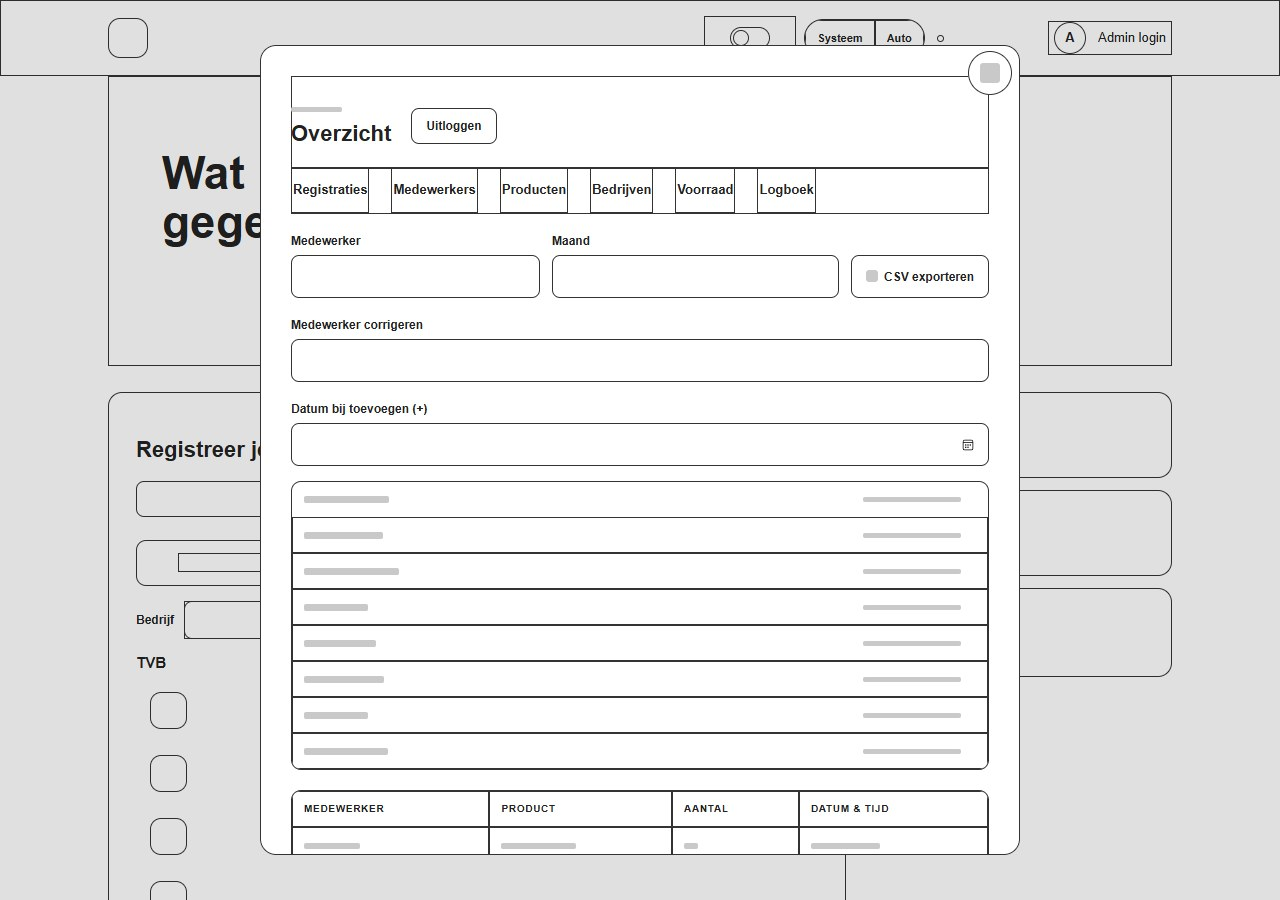
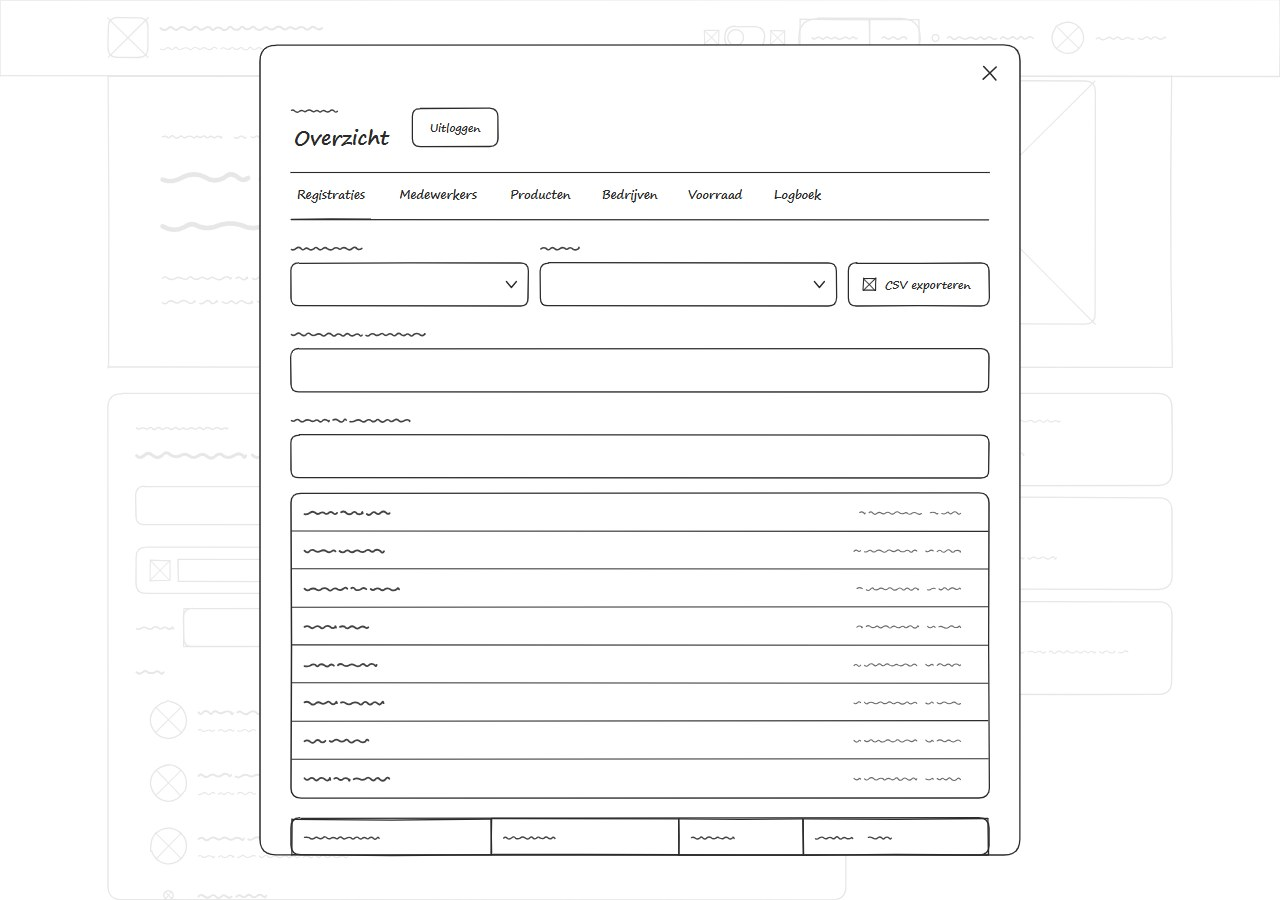
TO 3.9: low-fidelity wireframes in schetsstijl en twee iteraties voor mid- en high-fidelity

diff --git a/docs/TO-BLIKJESREGISTRATIE.md b/docs/TO-BLIKJESREGISTRATIE.md
@@ -1,7 +1,7 @@
 # Technisch Ontwerp - Blikjesregistratie TVB
 
 **Auteur:** Youri Rodenburg
-**Versie:** 3.8
+**Versie:** 3.9
 **Datum:** 12 oktober 2026
 **Status:** frontend-demo met productieschema voor PostgreSQL
 
@@ -23,6 +23,7 @@ De versies hieronder komen uit de git-historie van dit bestand (`git log --follo
 | 3.6 | 9 oktober 2026 | AFAS-koppeling (ontwerp) en herkennen met de pas. Ontwerp van de koppeling met AFAS Profit voor de medewerkergegevens (hoofdstuk 11) met FR-67 en AC-87 t/m AC-89. Herkennen met een USB-NFC-pasjeslezer in de demo (class `BadgeReader`) en een pas koppelen in het beheer, met FR-65, FR-66, UC-20 en AC-84 t/m AC-86. |
 | 3.7 | 9 oktober 2026 | Open punten uit de beveiligingsscan opgelost (hoofdstuk 13). Iedere beheeractie controleert in de controller zelf of er een beheerder is ingelogd (`requireAdmin`). Product-id's als `__proto__`, `constructor` of `toString` kunnen de voorraadlijst van een consumptiepunt niet meer verstoren. De camera gaat uit als de tijd voor herkennen of instellen om is. Codes en tijdstippen worden bij het laden strenger gecontroleerd. Het logboek in het databaseschema is echt alleen-toevoegen (triggers). De CI draait op Node.js 24 en de licentie van TensorFlow.js is toegevoegd. Twee bekende beperkingen erbij: registreren op naam van een ander en face-api dat niet meer wordt onderhouden. Nieuw testbestand `tests/beveiligingsscan.test.js` (534 tests in totaal). User stories US-01 t/m US-64 toegevoegd aan het eind van hoofdstuk 10. De diagrammen tonen nu ook de pasjeslezer, `BadgeReader`, UC-20 en de koppeling met AFAS. `BADGE_READER.minLength` is 4, zodat ook het kortste pasnummer dat de beheerder kan koppelen te scannen is. |
 | 3.8 | 12 oktober 2026 | Correctie `−` verbeterd: de beheerder kiest in het nieuwe venster `Registratie verwijderen` welke registratie (datum en tijd, product en aantal) weg moet, in plaats van dat altijd de laatst ingevoerde registratie verdwijnt. FR-14, UC-09, W19, US-30, AC-12 en AC-78 aangepast, AC-90 en screenshot W41 toegevoegd. In het logboek staat nu ook wanneer de verwijderde registratie was geregistreerd. De open controle van de keuzelijsten in het donkere thema is uitgevoerd (zie W39): de keuzelijsten en hun opties zijn in beide thema's goed leesbaar (licht 21:1, donker 15,7:1). Daarbij bleek de placeholdertekst in het donkere thema te weinig contrast te hebben (3,4:1). Die gebruikt nu `--muted` (6,9:1). Ook de grijze uitleg- en bijschrifttekst (`--muted`) haalde in het lichte thema de norm niet (3,9:1) en is iets donkerder gemaakt in dezelfde tint (`#5a6c71`, 5,5:1). W39 is opnieuw gemaakt en de twee bekende beperkingen over deze punten zijn vervallen. 547 tests in totaal. Nieuw zijn 9 browsertests (`tests/e2e/`) die de echte pagina in headless Edge of Chrome testen, zonder npm-pakketten, en die in GitHub Actions na de unit tests draaien. De melding "… bestaat niet meer. Er is niets opgeslagen." staat in de app nu precies zoals in dit document. De controller is opgesplitst zonder gedragsverandering: `RegistrationApp` (eerst 2414 regels, nu 593) maakt en koppelt acht kleinere classes met elk één taak (`ModalManager`, `EmployeeController`, `BadgeController`, `FaceController`, `AdminController`, `CorrectionController`, `StockController` en `FormController`), en alle methodes blijven via `RegistrationApp` bereikbaar. Hoofdstuk 6 (met het klassendiagram en het architectuurdiagram), de use cases, hoofdstuk 13 en hoofdstuk 16 zijn daarop aangepast, en de bekende beperking "`RegistrationApp` is een grote klasse" is vervallen. De acht onderdelen staan in de map `assets/js/controllers/`. Bestandsnamen consequenter gemaakt: `csvExport.js` heet nu `CsvExport.js` (zoals de andere classes) en de testbestanden hebben Nederlandse namen die zeggen wat ze testen (`thema`, `welkom-en-gezichtsherkenning`, `pasjeslezer`, `codecontrole4-model`, `codecontrole4-ui` en `view-en-controller`). |
+| 3.9 | 12 oktober 2026 | Hoofdstuk 9: de vijftien low-fidelity wireframes (L01 t/m L15) opnieuw gemaakt in een echte schetsstijl, met dunne zwarte lijnen op wit, een rechthoek met een kruis voor afbeeldingen, iconen en het logo, een cirkel met een kruis voor avatars en krabbellijnen in plaats van tekst. De eerdere versie leek te veel op een mid-fidelity wireframe. De uitleg over hoe ze zijn gemaakt en de legenda zijn aangepast. Twee iteraties (ontwerpvarianten) toegevoegd bij de mid-fidelity wireframes (beginpagina met een alfabetische lijst en de zoekbalk onderaan, productvenster met een aantalveld) en twee bij de high-fidelity wireframe (productvenster met tegels en registreren per tegel, beginpagina met de totalen bovenaan en een raster met avatars), elk met wat er anders is, de afweging en het besluit. De website zelf, de mid-fidelity wireframes M01 t/m M15 en de screenshots W01 t/m W41 zijn niet veranderd. |
 
 ## Inhoudsopgave
 
@@ -912,30 +913,34 @@ Een wireframe kan op drie niveaus worden uitgewerkt:
 
 | Niveau | Wat het laat zien | Waar in dit document |
 |---|---|---|
-| Low-fidelity | Alleen de indeling: vlakken, kaders, knoppen en waar tekst komt. Geen kleuren en (bijna) geen tekst. | [Low-fidelity wireframes](#low-fidelity-wireframes) |
-| Mid-fidelity | De indeling met de echte teksten, labels en volgorde, in grijstinten en met één lettertype. Nog zonder huisstijl. | [Mid-fidelity wireframes](#mid-fidelity-wireframes) |
-| High-fidelity | Het eindontwerp met de kleuren, lettertypes, iconen en afbeeldingen van TVB. | [Wireframes](#wireframes) (de screenshots van de website) |
+| Low-fidelity | Alleen de indeling, als schets: dunne zwarte lijnen op wit, kaders voor vlakken, knoppen en velden, een kader met een kruis voor afbeeldingen en iconen en krabbellijnen waar tekst komt. Geen kleuren en bijna geen echte tekst. | [Low-fidelity wireframes](#low-fidelity-wireframes) |
+| Mid-fidelity | De indeling met de echte teksten, labels en volgorde, in grijstinten en met één lettertype. Nog zonder huisstijl. Met twee iteraties (ontwerpvarianten). | [Mid-fidelity wireframes](#mid-fidelity-wireframes) |
+| High-fidelity | Het eindontwerp met de kleuren, lettertypes, iconen en afbeeldingen van TVB. Met twee iteraties (ontwerpvarianten). | [High-fidelity wireframe](#high-fidelity-wireframe) en [Wireframes](#wireframes) (de screenshots van de website) |
 
-**Hoe de low- en mid-fidelity wireframes zijn gemaakt.** Aan het begin van het project zijn de twee schetsen hieronder gemaakt ("Eerste schets" en "Eerste uitwerking"). De website is daarna flink veranderd, dus die schetsen laten niet meer zien hoe de website nu is. Daarom zijn de low- en mid-fidelity wireframes in dit hoofdstuk opnieuw gemaakt **vanuit de huidige website**, zodat ze precies overeenkomen met de echte schermen. Dat is gedaan met Microsoft Edge zonder venster (headless), met dezelfde demogegevens als de high-fidelity screenshots (ingevoerd via de website zelf). De meeste zijn gemaakt op 1 oktober 2026. Een paar zijn later op dezelfde manier en met dezelfde stappen opnieuw gemaakt, omdat de website op die plek was veranderd:
+**Hoe de low- en mid-fidelity wireframes zijn gemaakt.** Aan het begin van het project zijn de twee schetsen hieronder gemaakt ("Eerste schets" en "Eerste uitwerking"). De website is daarna flink veranderd, dus die schetsen laten niet meer zien hoe de website nu is. Daarom zijn de low- en mid-fidelity wireframes in dit hoofdstuk opnieuw gemaakt **vanuit de huidige website**, zodat ze precies overeenkomen met de echte schermen. Dat is gedaan met Microsoft Edge zonder venster (headless), met dezelfde demogegevens als de high-fidelity screenshots (ingevoerd via de website zelf).
 
-- L07 en M07 (Registraties) op 2 oktober 2026, omdat het datumveld `Datum bij toevoegen (+)` is bijgekomen.
-- L15 en M15 (Logboek) op 2 oktober 2026, omdat onder het logboek de knop `Alle gegevens wissen` is bijgekomen.
-- L12 en M12 (Bedrijven) op 6 oktober 2026, omdat er nu "1 medewerker" staat in plaats van "1 medewerkers".
+- **Mid-fidelity:** de meeste zijn gemaakt op 1 oktober 2026. Een paar zijn later op dezelfde manier en met dezelfde stappen opnieuw gemaakt, omdat de website op die plek was veranderd: M07 (Registraties) en M15 (Logboek) op 2 oktober 2026, omdat het datumveld `Datum bij toevoegen (+)` en de knop `Alle gegevens wissen` zijn bijgekomen, en M12 (Bedrijven) op 6 oktober 2026, omdat er nu "1 medewerker" staat in plaats van "1 medewerkers".
+- **Low-fidelity:** alle vijftien zijn op 12 oktober 2026 opnieuw gemaakt in een echte schetsstijl. De eerdere versie (van 1, 2 en 6 oktober) had zwarte kaders met grijze balken en de meeste echte teksten, en leek daardoor te veel op een mid-fidelity wireframe. De schermen, de indeling en de afmetingen zijn gelijk gebleven.
 
-Een klein script verandert alleen de weergave van de pagina. De indeling, de plaats en de grootte van alles blijven gelijk. Dit script en de hulpscripts voor de screenshots staan niet in de repository. De afbeeldingen zijn dus niet met één opdracht opnieuw te maken. Het script verandert per niveau het volgende:
+Een klein script verandert alleen de weergave van de pagina. De indeling, de plaats en de grootte van alles blijven gelijk. Dit script en de hulpscripts voor de screenshots staan niet in de repository. De afbeeldingen zijn dus niet met één opdracht opnieuw te maken. Het script werkt per niveau zo:
 
-- **Low-fidelity:** alle kleuren en schaduwen zijn weg, ieder vlak, kaart, knop en invoerveld is een zwart kader op wit. Koppen, knoppen, tabbladen, labels van velden, kolomkoppen, links en de tekst naast een vinkje houden hun tekst. De meeste andere tekst (zoals namen, uitleg en details) is een grijze balk. Iconen zijn kleine grijze blokjes en afbeeldingen en het camerabeeld zijn een kader met een kruis.
+- **Low-fidelity:** het script meet in de echte pagina de plaats en grootte van ieder vlak, iedere knop, ieder veld, ieder icoon en ieder woord. Daarna tekent het de hele pagina opnieuw als schets (in SVG) over de pagina heen, met dunne zwarte lijnen op wit en zonder kleuren of schaduwen. De lijnen zijn met opzet een klein beetje ongelijk, zodat het eruitziet als een schets en niet als een af scherm. Lopende tekst, namen, labels en details zijn krabbellijnen: golvende lijnen met de lengte van het woord (een dikkere lijn is een grotere of vette tekst, zoals een kop). Alleen korte koppen, tabbladen, knopteksten en getallen staan er als echte tekst in, in een handschriftachtig lettertype (Segoe Print), omdat het scherm zonder die woorden niet te begrijpen is. Ieder plaatje, icoon en logo (ook het TVB-logo) is een rechthoek met een kruis van hoek tot hoek, een avatar is een cirkel met een kruis. Alleen de tekens `+`, `−` en `×` op de ronde knoppen en de sluitknop en de pijl van een keuzelijst zijn getekend, omdat die knoppen zonder hun teken geen betekenis hebben.
 - **Mid-fidelity:** de pagina staat in grijstinten, alles gebruikt één lettertype (Arial) en schaduwen en kleurverlopen zijn weg. De banner is een grijs vlak. De lichte cirkels die als versiering in de banner staan, blijven zichtbaar. Alle echte teksten staan erin. Het camerabeeld is een grijs vlak met de tekst "Camerabeeld" en het ovale kader.
 
-Bij schermen met een venster (zoals het productvenster of het beheer) is de pagina erachter ook te zien, net als op de website: gedimd achter het venster.
+Bij schermen met een venster (zoals het productvenster of het beheer) is de pagina erachter ook te zien, net als op de website. In de low-fidelity wireframes is die pagina met lichtgrijze lijnen getekend, in de mid-fidelity wireframes is hij gedimd.
 
 | Teken in de low-fidelity wireframe | Betekenis |
 |---|---|
-| Zwart kader | Vlak, kaart, knop, invoerveld of keuzelijst |
-| Grijze balk | Tekst zoals namen, uitleg en details (de lengte van de balk is de lengte van de tekst) |
-| Kader met een kruis | Afbeelding of camerabeeld |
-| Klein grijs blok | Icoon |
-| Ingebouwd element van de browser | De datumkiezer, vinkjes en de slider van het thema worden door de browser zelf getekend. Ze zijn niet omgezet naar een kader en blijven zichtbaar zoals in de echte website. |
+| Dun zwart kader | Vlak, kaart, knop, invoerveld of keuzelijst (een keuzelijst heeft rechts een pijltje) |
+| Dikker kader | De hoofdknop van het scherm, zoals `Registreren (3)` |
+| Gestippelde cirkel met een licht teken | Uitgeschakelde knop, zoals de `−` bij een product dat nog op 0 staat |
+| Krabbellijn (golvende lijn) | Tekst zoals namen, uitleg, labels en details. De lengte van de lijn is de lengte van het woord, een dikkere lijn is een grotere of vette tekst |
+| Woord in handschrift | Korte kop, tabblad, knoptekst of getal die nodig is om het scherm te begrijpen |
+| Rechthoek met een kruis | Afbeelding, icoon, logo of camerabeeld |
+| Cirkel met een kruis | Avatar van een medewerker of van de beheerder |
+| Vierkantje, met of zonder vinkje | Vinkje (aan of uit) |
+| Gestippeld ovaal | Kader voor het gezicht bij de gezichtsherkenning |
+| Lichtgrijze lijnen | De pagina achter een open venster |
 
 ### Low-fidelity wireframes
 
@@ -960,7 +965,7 @@ Bij deze eerste schets ging het vooral om de grote indeling van het scherm: een 
 
 ![L01 – Beginpagina op een tablet (low-fidelity)](wireframes/lofi-01-beginpagina-tablet.jpg)
 
-Bovenaan de bovenbalk met links het logo en de naam, en rechts de themakeuze (slider en twee knoppen), de status en de admin-knop. Daaronder de banner met de vraag als grote kop en rechts een afbeelding. Daaronder één grote kaart met een kop, een teller, een brede knop voor de camera, het zoekveld, het bedrijfsfilter en de lijst met medewerkers onder een bedrijfsnaam: per medewerker een avatar met twee regels tekst. Uitgewerkt in [W01](#w01--beginpagina-op-een-tablet).
+Bovenaan de bovenbalk met links het logo (rechthoek met kruis) en de naam, en rechts de themakeuze (slider en twee knoppen), de status en de admin-knop. Daaronder de banner met de vraag als grote kop (dikke krabbellijnen) en rechts een afbeelding. Daaronder één grote kaart met een kop, een teller, een brede knop voor de camera, het zoekveld, het bedrijfsfilter en de lijst met medewerkers onder een bedrijfsnaam: per medewerker een avatar (cirkel met kruis) met twee regels tekst. Uitgewerkt in [W01](#w01--beginpagina-op-een-tablet).
 
 #### L02 – Beginpagina op een groot scherm
 
@@ -978,7 +983,7 @@ Alles staat in één kolom. In de bovenbalk blijven alleen het logo, de themakeu
 
 ![L04 – Productvenster (low-fidelity)](wireframes/lofi-04-productvenster.jpg)
 
-Een venster boven de beginpagina met bovenaan de kop met de naam van de medewerker en een sluitknop. Daaronder een vak met het voorstel en de knop `Zelfde als vorige keer`, een korte uitleg en een lijst met even grote productrijen: links naam en prijs, rechts een ronde `−`-knop, het aantal en een ronde `+`-knop. Onderaan links de link voor de gezichtsherkenning en rechts de knop `Registreren (3)`. Uitgewerkt in [W07](#w07--productvenster-eerste-keer) tot en met [W10](#w10--productvenster-met-zelfde-als-vorige-keer).
+Een venster boven de beginpagina met bovenaan de kop met de naam van de medewerker en een sluitknop. Daaronder een vak met het voorstel en de knop `Zelfde als vorige keer`, een korte uitleg en een lijst met even grote productrijen: links naam en prijs, rechts een ronde `−`-knop, het aantal en een ronde `+`-knop. Bij een product dat op 0 staat, is de `−`-knop gestippeld (uitgeschakeld). Onderaan links de link voor de gezichtsherkenning en rechts de knop `Registreren (3)`, met een dikker kader omdat het de hoofdknop is. Uitgewerkt in [W07](#w07--productvenster-eerste-keer) tot en met [W10](#w10--productvenster-met-zelfde-als-vorige-keer).
 
 #### L05 – Gezichtsherkenning instellen (demo)
 
@@ -1044,7 +1049,7 @@ Bovenaan een blok `Bijbestellen (3)` met per regel een label, een link naar het 
 
 ![L15 – Beheer: Logboek (low-fidelity)](wireframes/lofi-15-logboek.jpg)
 
-Een tabel met drie kolommen: actie, details en datum en tijd. Daaronder twee regels tekst (grijze balken) en één knop `Alle gegevens wissen`, los van de tabel. Uitgewerkt in [W33](#w33--beheer-logboek).
+Een tabel met drie kolommen: actie, details en datum en tijd. Daaronder twee regels tekst (krabbellijnen) en één knop `Alle gegevens wissen`, los van de tabel. Uitgewerkt in [W33](#w33--beheer-logboek).
 
 ### Mid-fidelity wireframes
 
@@ -1158,6 +1163,41 @@ De bijbestellijst met de labels `Bijbestellen` en `Op` en de teksten (bijvoorbee
 
 Het logboek met de echte regels, zoals "Consumptiepunt toegevoegd" en "Voorraad geteld", met de details en de datum en tijd (hier "02 okt, 14:35"). Onder de tabel staat de uitleg "Wist alle medewerkers, registraties, producten, voorraad, het logboek en de reservekopieën op deze tablet en zet de demogegevens terug." en de knop `Alle gegevens wissen`. Zonder kleur lijkt die knop op een gewone knop. In het eindontwerp is hij rood. Uitgewerkt in [W33](#w33--beheer-logboek).
 
+#### Iteraties
+
+Een ontwerp ontstaat niet in één keer. Voor de twee schermen die een medewerker het vaakst gebruikt, de beginpagina en het productvenster, zijn naast het definitieve ontwerp (M01 en M04) andere indelingen uitgewerkt en afgewogen. Hieronder staan twee van die ontwerpvarianten als mid-fidelity wireframe. Per iteratie staat wat er anders is dan het definitieve ontwerp, wat het voordeel en het nadeel is en waarom het definitieve ontwerp is gekozen. De codes H1 tot en met H10 zijn de heuristieken van Nielsen (zie [De tien heuristieken van Nielsen](#de-tien-heuristieken-van-nielsen)).
+
+**Hoe de iteraties zijn gemaakt.** De afbeeldingen zijn op 12 oktober 2026 gemaakt, op dezelfde manier als de andere mid-fidelity wireframes: de echte website is geladen in Microsoft Edge zonder venster, met dezelfde demogegevens. Daarna is de variant alleen in de geladen pagina nagebouwd door tijdelijk extra CSS en HTML toe te voegen. De bestanden van de website zelf zijn niet veranderd. Tot slot heeft hetzelfde script als bij M01 tot en met M15 de pagina in grijstinten en met één lettertype gezet. Omdat de afbeeldingen 's ochtends zijn gemaakt, staat in iteratie 2 "Goedemorgen" in plaats van "Goedemiddag".
+
+#### Mid-fidelity iteratie 1 – Beginpagina met een alfabetische lijst en de zoekbalk onderaan
+
+![Mid-fidelity iteratie 1 – Beginpagina met een alfabetische lijst en de zoekbalk onderaan](wireframes/midfi-iteratie-1-beginpagina-tablet.jpg)
+
+**Wat is anders.** De medewerkers staan niet per bedrijf, maar in één lijst op alfabet, met een letter boven iedere groep (B, D, E, L, M, enzovoort). Rechts naast de lijst staat een index van A tot en met Z, waarin de letters met medewerkers vet zijn. Het bedrijfsfilter is weg. Het zoekveld staat niet boven de lijst, maar vast onderaan het scherm, zodat het altijd in beeld is. De banner, de kop en de knop voor de camera zijn gelijk aan M01.
+
+**Afweging.** Een alfabet is een ordening die iedereen kent (H2), en met de index kan een medewerker in een lange lijst direct naar de eigen beginletter springen. Een zoekveld onderaan zit op een staande tablet dicht bij de hand en blijft zichtbaar, ook als de lijst scrollt. Daar staan een paar nadelen tegenover:
+
+- De lijst is gesorteerd op voornaam. Wie op achternaam zoekt (bijvoorbeeld "van Dijk"), vindt zichzelf niet onder de verwachte letter. Dat vraagt herinneren in plaats van herkennen (H6).
+- De letters in de index zijn ongeveer 15 pixels hoog. Dat is veel kleiner dan de 44 × 44 pixels die de website voor aanraakvlakken aanhoudt (UI-principe toegankelijkheid, zie W01).
+- Zonder groepering per bedrijf en zonder bedrijfsfilter voldoet het ontwerp niet aan FR-31. Bij meerdere bedrijven op één tablet staan collega's van verschillende bedrijven door elkaar.
+- Het zoekveld staat los van de lijst die het filtert, aan de andere kant van het scherm (UI-principe groeperen). Op de meeste websites en apps staat het zoekveld boven de lijst (H4). Bovendien schuift het schermtoetsenbord van een tablet onderaan omhoog, precies waar het zoekveld staat.
+
+**Besluit.** Gekozen is voor M01: de medewerkers per bedrijf (FR-31) met het bedrijfsfilter, en het zoekveld direct boven de lijst (FR-02). Met zoeken op voor- of achternaam is een naam ook in een lange lijst na een paar letters te vinden, en zoeken werkt ook met het toetsenbord (Ctrl K, H7). Daarmee is een index niet nodig.
+
+#### Mid-fidelity iteratie 2 – Productvenster met een aantalveld per product
+
+![Mid-fidelity iteratie 2 – Productvenster met een aantalveld per product](wireframes/midfi-iteratie-2-productvenster.jpg)
+
+**Wat is anders.** In plaats van de knoppen `−` en `+` met het aantal ertussen heeft ieder product een invoerveld `Aantal`, waarin de medewerker het aantal typt. De rest is gelijk aan M04: het voorstel `Zelfde als vorige keer`, de uitleg (aangepast aan het invoerveld) en één knop `Registreren (3)` om alles tegelijk op te slaan.
+
+**Afweging.** Een invoerveld is compact en een groter aantal (bijvoorbeeld 6) is in één keer te typen. Maar op een tablet zonder toetsenbord heeft dit ontwerp duidelijke nadelen:
+
+- Voor één product moet de medewerker in het veld tikken, de 0 weghalen, een cijfer typen en het schermtoetsenbord sluiten. Met de `+`-knop is dat één tik. Het meest voorkomende geval (één blikje) kost met het invoerveld dus meer handelingen dan de 3 tikken van NFR-01 (naam, `+`, `Registreren`).
+- Het schermtoetsenbord bedekt een groot deel van het venster, ook de knop `Registreren`.
+- In een vrij veld kan alles worden ingevuld: een negatief getal, een kommagetal, niets of per ongeluk 100. Dat vraagt extra controles en foutmeldingen achteraf, terwijl de knoppen zulke fouten vooraf onmogelijk maken (H5).
+
+**Besluit.** Gekozen is voor M04 met de ronde knoppen `−` en `+` van 44 × 44 pixels (FR-03 en FR-47). Het aantal staat groot tussen de knoppen (H1), de `−`-knop gaat niet onder 0 (H5) en een verkeerde tik is met `−` direct te herstellen (H3). Het gaat om losse consumpties (een blikje, een ei, een sneetje brood), waarbij grote aantallen per keer niet voor de hand liggen. Het snel typen van grote aantallen weegt daarom niet op tegen de nadelen.
+
 ### High-fidelity wireframe
 
 De high-fidelity versie is de uiteindelijke website. Deze heeft:
@@ -1172,6 +1212,43 @@ De high-fidelity versie is de uiteindelijke website. Deze heeft:
 - een aparte admin-modal.
 
 Van ieder scherm van de high-fidelity versie staat een screenshot in de paragraaf [Wireframes](#wireframes) hieronder.
+
+#### Iteraties
+
+Ook in de huisstijl zijn voor de beginpagina en het productvenster andere indelingen uitgewerkt en afgewogen tegen het definitieve ontwerp (W01 en W10). Hieronder staan twee van die ontwerpvarianten. Ze gebruiken dezelfde kleuren, lettertypes (DM Sans en Space Grotesk), iconen en onderdelen als de website, zodat alleen de ontwerpkeuze verschilt. Per iteratie staat wat er anders is, wat het voordeel en het nadeel is en waarom het definitieve ontwerp is gekozen. De codes H1 tot en met H10 zijn de heuristieken van Nielsen (zie [De tien heuristieken van Nielsen](#de-tien-heuristieken-van-nielsen)), de UI-principes staan in [Gebruikte UI-principes](#gebruikte-ui-principes).
+
+**Hoe de iteraties zijn gemaakt.** De afbeeldingen zijn op 12 oktober 2026 gemaakt met de echte website in Microsoft Edge zonder venster, op een staande tablet (810 × 1080 pixels) en met dezelfde demogegevens als de screenshots W01 tot en met W41. De variant is alleen in de geladen pagina nagebouwd door tijdelijk extra CSS en HTML toe te voegen, met de bestaande stylesheet en onderdelen (kaarten, knoppen, avatars, iconen en statistiektegels). De bestanden van de website zelf zijn niet veranderd. Het zijn dus geen screenshots van een scherm dat in de website zit. Omdat ze 's ochtends zijn gemaakt, staat in iteratie 1 "Goedemorgen".
+
+#### High-fidelity iteratie 1 – Productvenster met tegels en registreren per tegel
+
+![High-fidelity iteratie 1 – Productvenster met tegels en registreren per tegel](wireframes/hifi-iteratie-1-productvenster.jpg)
+
+**Wat is anders.** Het venster is breder en de producten staan als tegels in drie kolommen. Iedere tegel heeft bovenaan een plek voor een productfoto (hier een icoon in een lichtgroen vlak, omdat er geen productfoto's zijn), daaronder de naam en de prijs en onderaan een eigen groene knop `Registreer`. Een tik op die knop slaat het product meteen op. De tellers met `−` en `+` en de knop `Registreren` onderaan zijn weg, en de uitleg zegt "Tik op Registreer bij een product. Het product wordt meteen opgeslagen."
+
+**Afweging.** Een foto maakt een product sneller herkenbaar dan alleen een naam (H6) en sluit aan bij hoe het product er in de kantine uitziet (H2). Voor één product zijn maar twee tikken nodig (naam en `Registreer`), één minder dan in NFR-01. Daar staan deze nadelen tegenover:
+
+- Er zijn geen productfoto's. Het datamodel heeft per product alleen een naam en een prijs en geen afbeelding (zie [Tabel Producten](#tabel-producten)). Foto's vragen een extra veld, uploaden en opslaan in het beheer, en de beheerder moet ze bij ieder nieuw product bijhouden. Dat valt buiten de scope van de demo.
+- Er staan acht groene knoppen in één venster. Groen betekent in de website "de hoofdactie" (UI-principe kleur met betekenis). Met acht hoofdacties valt geen enkele knop meer op en is de visuele hiërarchie weg (H8).
+- Wie meerdere producten pakt, zoals 2× Blikje en 1× Ei, tikt drie keer op `Registreer` en krijgt drie aparte registraties en meldingen in plaats van één.
+- Iedere tik is meteen opgeslagen. Een verkeerde tik kan de medewerker niet zelf herstellen, omdat een medewerker geen registratie mag verlagen (FR-04). Daarvoor is een correctie door de beheerder nodig (H3 en H5).
+- `Zelfde als vorige keer` kan de keuze niet meer klaarzetten om eerst te controleren, zoals FR-50 vraagt, want er is geen keuze meer die nog niet is opgeslagen.
+
+**Besluit.** Gekozen is voor het productvenster van W07 tot en met W10: een lijst met even grote rijen, per product `−` en `+`, en één groene knop `Registreren (aantal)` die alles in één keer opslaat (FR-03, FR-47 en FR-48). De medewerker kiest eerst en bevestigt daarna één keer, en kan tot dat moment alles nog herstellen met `−` (H3 en H5). Zo blijft er één duidelijke hoofdactie in het venster. Een kleine productfoto in de rij kan later worden toegevoegd zonder deze werkwijze te veranderen.
+
+#### High-fidelity iteratie 2 – Beginpagina met de totalen bovenaan en een raster met avatars
+
+![High-fidelity iteratie 2 – Beginpagina met de totalen bovenaan en een raster met avatars](wireframes/hifi-iteratie-2-beginpagina-tablet.jpg)
+
+**Wat is anders.** De twee tegels met de totalen (`Vandaag geregistreerd` en `Deze maand`) staan direct onder de banner, boven de kaart met medewerkers. De tipkaart `Goed bezig!` is weg. De medewerkers staan niet in een lijst, maar in een raster van vier kolommen met per medewerker een grote avatar met initialen en de naam eronder. De tekst "Klik om een product te kiezen" is weggelaten.
+
+**Afweging.** De totalen zijn meteen te zien (H1) en het raster ziet er beeldend uit, met grote aanraakvlakken en vier namen naast elkaar. Daar staan deze nadelen tegenover:
+
+- De totalen zijn voor de taak van de medewerker (registreren) niet nodig en zijn een Could-eis (FR-62). Bovenaan duwen ze de lijst met namen ongeveer 130 pixels omlaag, terwijl de staande tablet in W01 juist een compactere banner heeft zodat de lijst zo hoog mogelijk begint (H8).
+- Namen in smalle, gecentreerde kolommen zijn lastiger achter elkaar te lezen dan een lijst die links is uitgelijnd (UI-principe uitlijning). Een lange naam, bijvoorbeeld met een tussenvoegsel, past niet altijd in een kolom van ongeveer 170 pixels en loopt dan over twee regels. Op een telefoon past het raster van vier kolommen helemaal niet, dus daar is toch een andere indeling nodig (UI-principe responsief ontwerp).
+- De avatar helpt nauwelijks bij het vinden van de eigen naam: het zijn initialen en een kleur, geen foto, en twee medewerkers kunnen dezelfde initialen hebben. De naam blijft dus het belangrijkste kenmerk.
+- Zonder "Klik om een product te kiezen" is minder goed te zien dat een tegel aan te tikken is (UI-principe affordance).
+
+**Besluit.** Gekozen is voor W01: een lijst met per medewerker een avatar, de naam en "Klik om een product te kiezen", gegroepeerd per bedrijf. Op een staande tablet staan de totalen onder de lijst (W06), op een groot scherm in een eigen kolom rechts (W02). De medewerker ziet zo eerst wat nodig is om te registreren, en de totalen blijven beschikbaar.
 
 ### Ontwerpkeuzes en Nielsen-heuristieken
 
